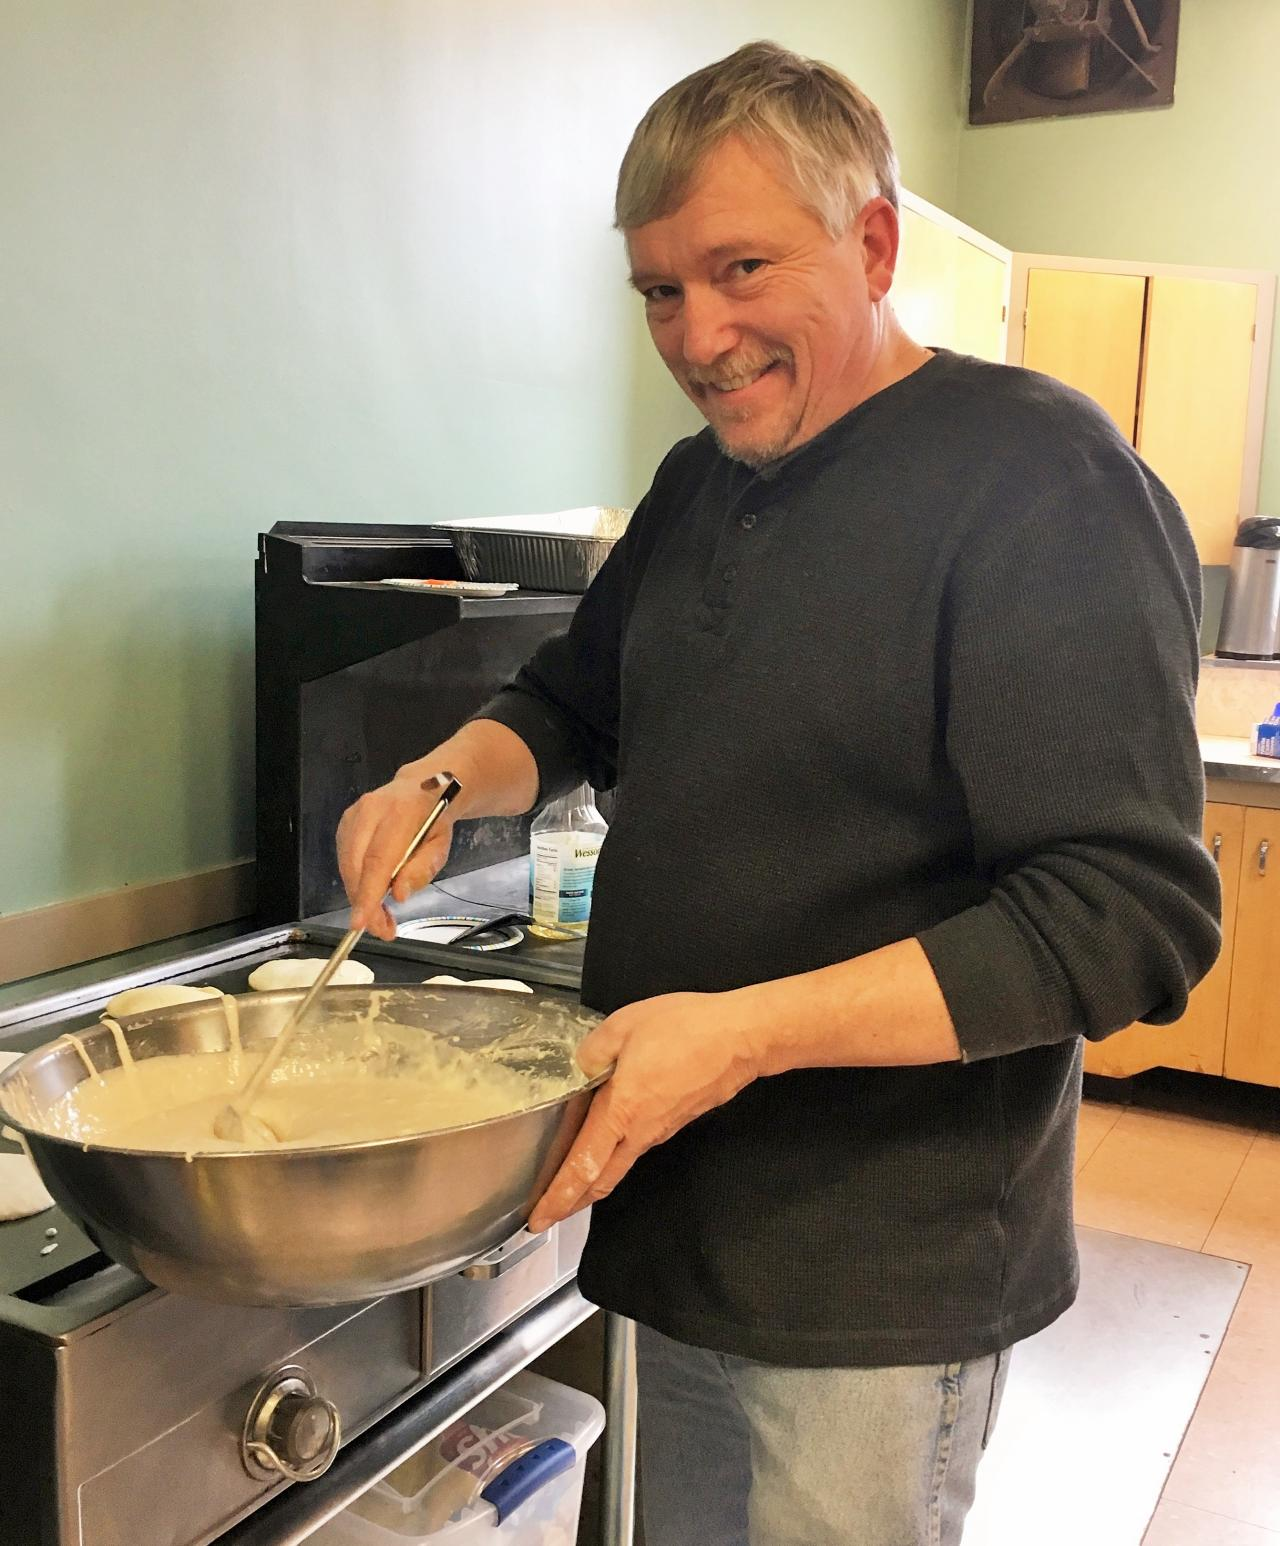
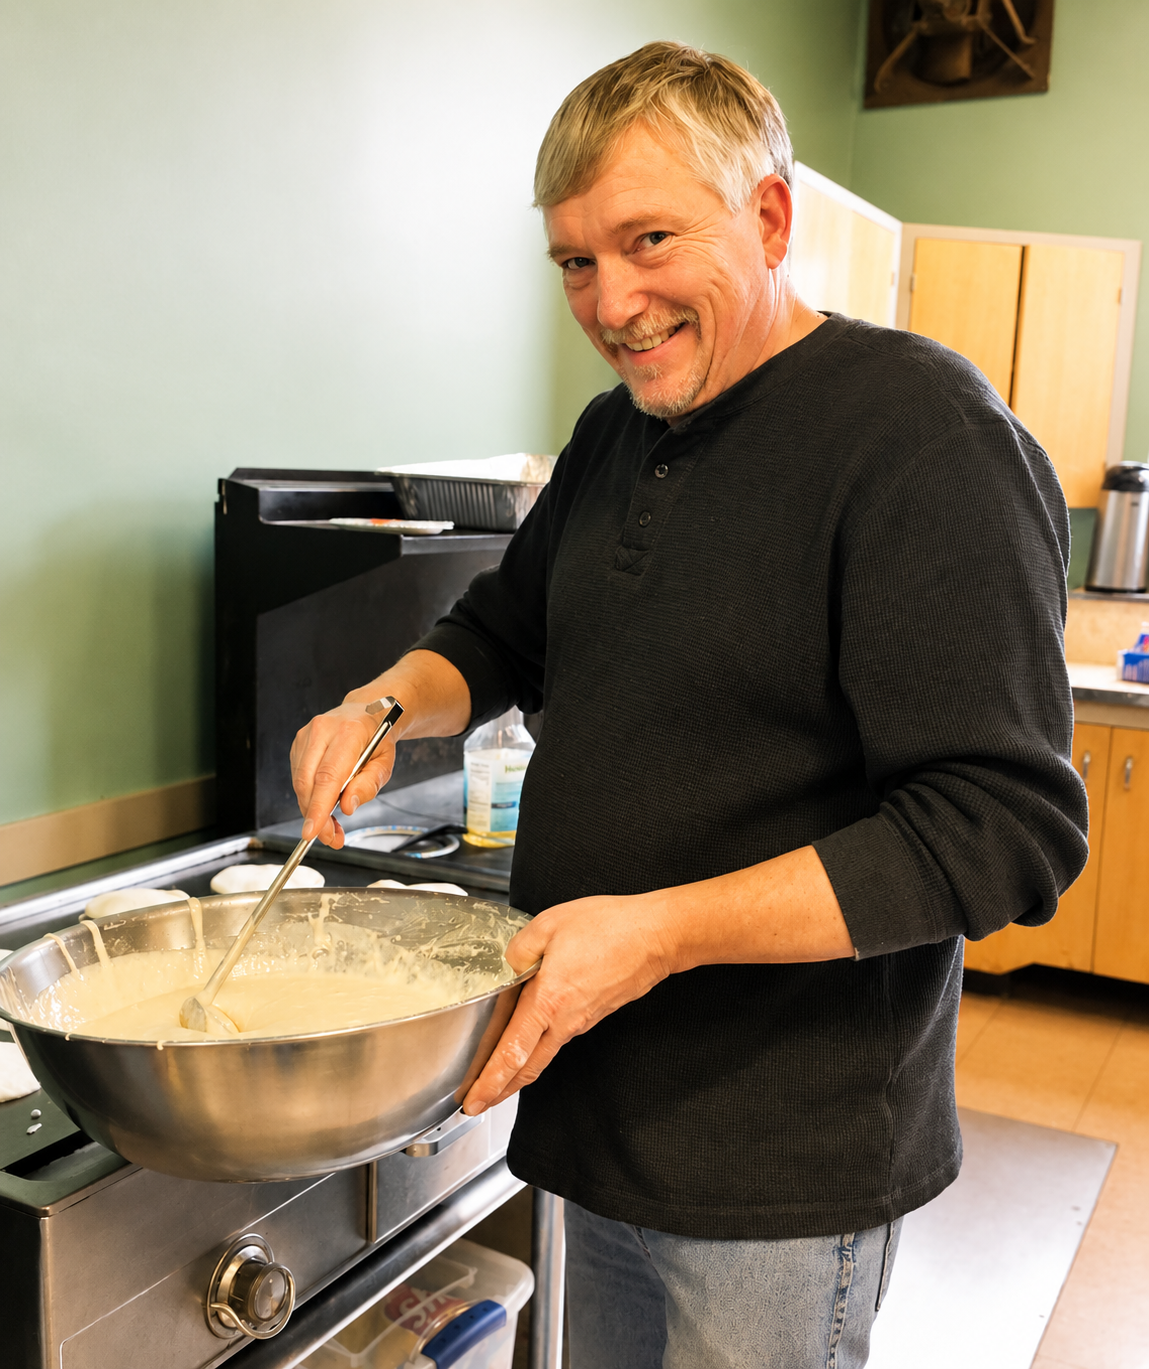
photo update - added new pic enhanced

diff --git a/src/components/views/LandingPage/components/Photos.jsx b/src/components/views/LandingPage/components/Photos.jsx
@@ -2,7 +2,7 @@ import { Button } from "react-bootstrap";
 import { useEffect, useState } from "react";
 import englishSiteContent from "../../../../content/englishSiteContent";
 
-const TOTAL_PHOTOS = 102;
+const TOTAL_PHOTOS = 104;
 const THUMBNAILS_VISIBLE = 3;
 
 const Photos = () => {

diff --git a/src/components/views/LandingPageSpanish/componentsSpanish/Photos.jsx b/src/components/views/LandingPageSpanish/componentsSpanish/Photos.jsx
@@ -2,7 +2,7 @@ import { Button } from "react-bootstrap";
 import { useEffect, useState } from "react";
 import spanishSiteContent from "../../../../content/spanishSiteContent";
 
-const TOTAL_PHOTOS = 102;
+const TOTAL_PHOTOS = 104;
 const THUMBNAILS_VISIBLE = 3;
 
 const Photos = () => {
